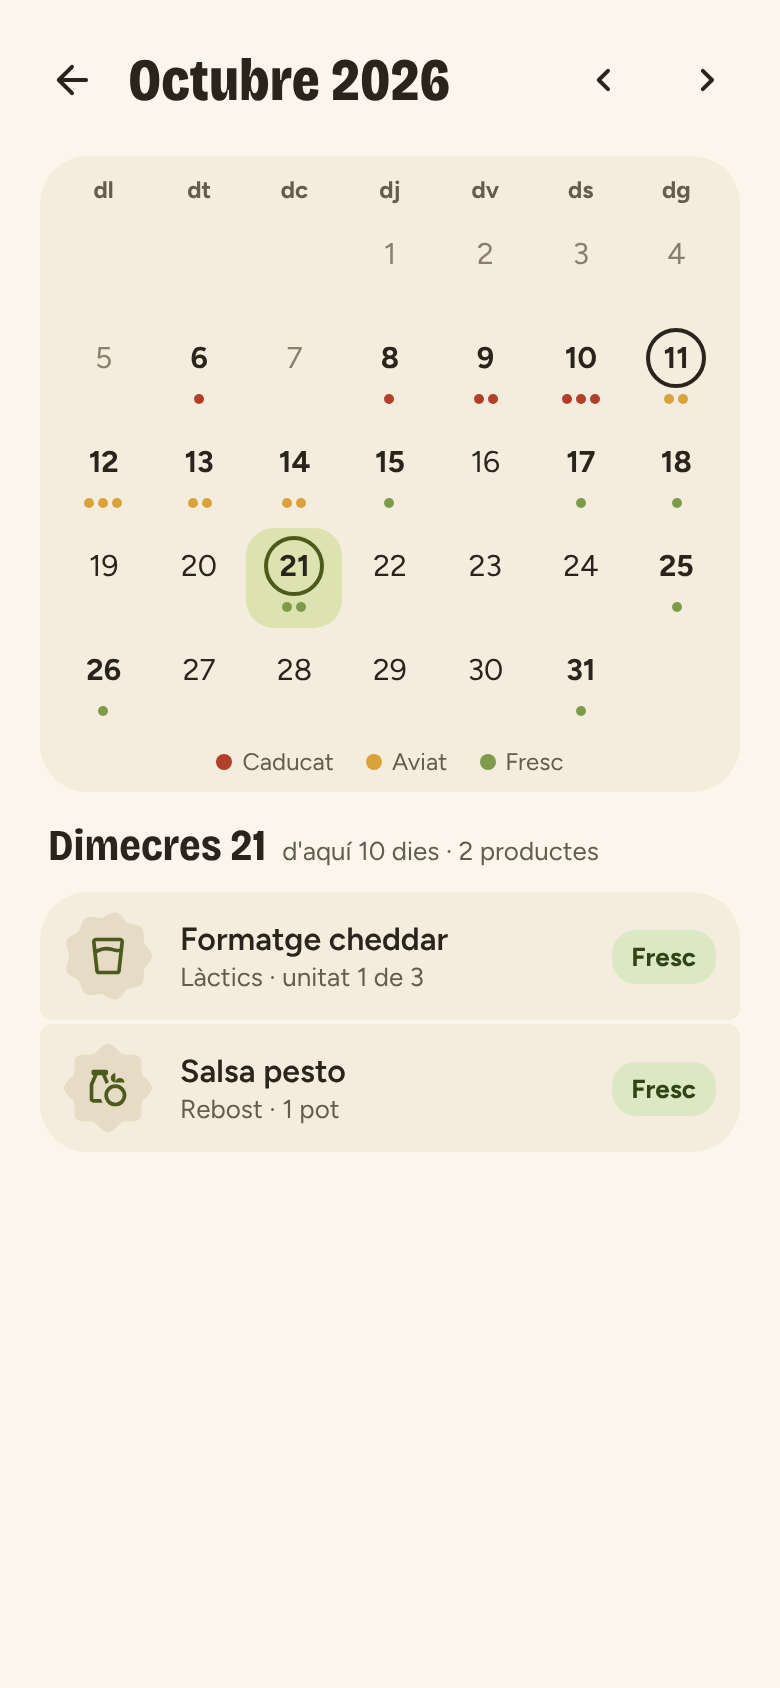
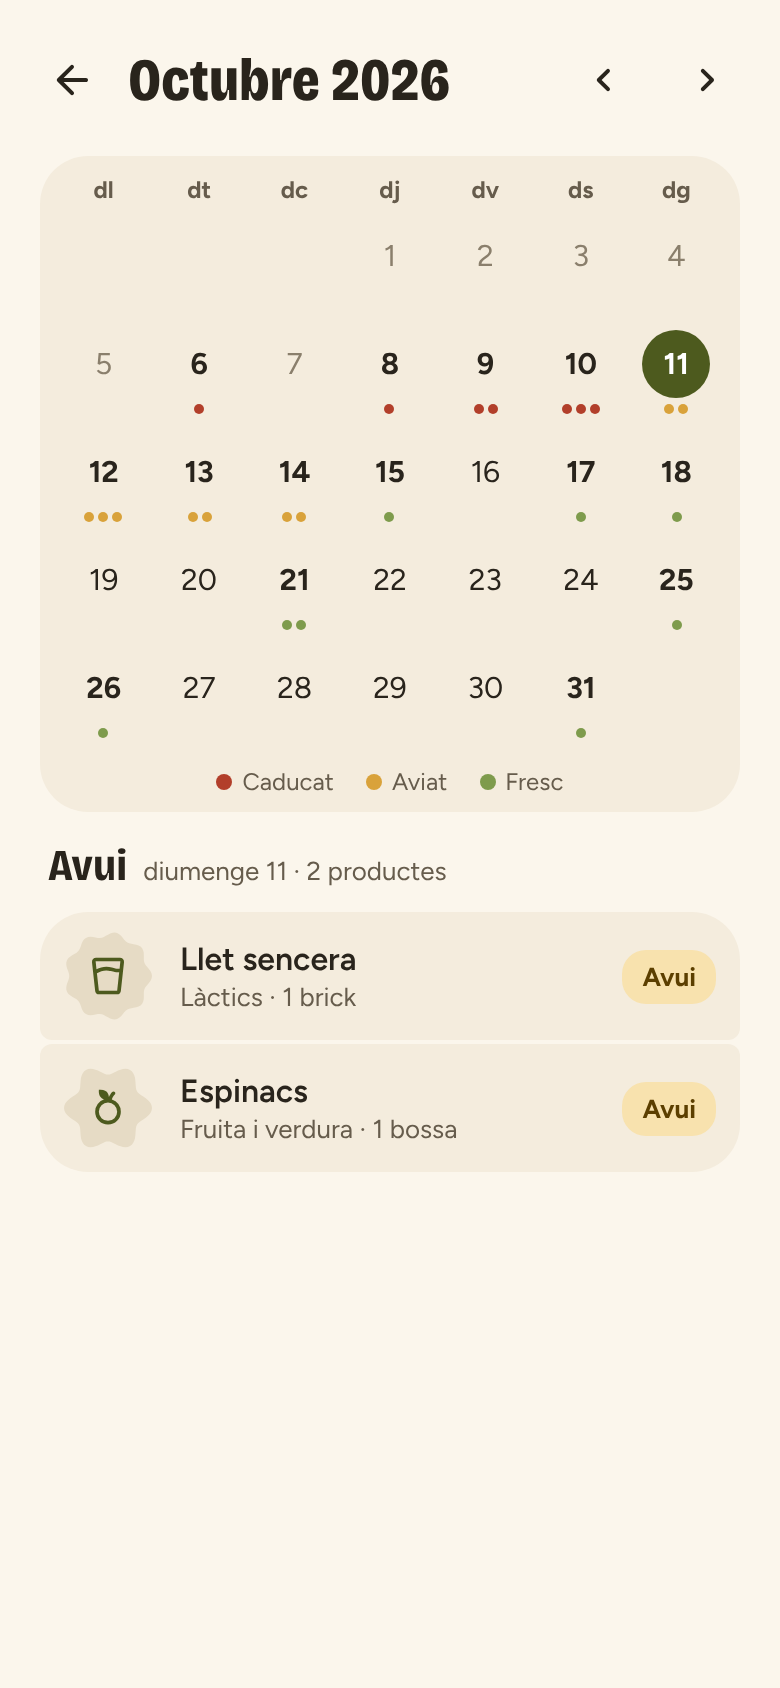
docs: updated month calendar spec, capture and source (day states on the 34 dp circle)
Claude-Session: https://claude.ai/code/session_01SHxGbYzaKL6KqCq2TQZq3q

diff --git a/docs/redisseny/02-disseny-nou/font-dc-html/CalMes.dc.html b/docs/redisseny/02-disseny-nou/font-dc-html/CalMes.dc.html
@@ -34,8 +34,8 @@ a{color:#4D5A1E}a:hover{color:#283010}
       </div>
       <div role="grid" aria-label="Octubre 2026" style="display: grid; grid-template-columns: repeat(7, minmax(0, 1fr)); row-gap: 2px">
         <sc-for list="{{cells}}" as="c" hint-placeholder-count="35">
-          <button aria-label="{{c.label}}" aria-pressed="{{c.selA}}" style="display: flex; flex-direction: column; align-items: center; gap: 3px; height: 50px; padding: 4px 0 0; border: none; border-radius: 14px; background: {{c.bg}}; color: {{c.fg}}; font-family: 'Figtree', sans-serif; visibility: {{c.vis}}; cursor: pointer">
-            <span style="width: 30px; height: 30px; box-sizing: border-box; border-radius: 15px; border: {{c.ring}}; display: flex; align-items: center; justify-content: center; font-size: 15px; font-weight: {{c.fw}}">{{c.n}}</span>
+          <button aria-label="{{c.label}}" aria-pressed="{{c.selA}}" style="display: flex; flex-direction: column; align-items: center; gap: 3px; height: 52px; padding: 3px 0 0; border: none; border-radius: 14px; background: transparent; color: {{c.fg}}; font-family: 'Figtree', sans-serif; visibility: {{c.vis}}; cursor: pointer">
+            <span style="width: 34px; height: 34px; box-sizing: border-box; border-radius: 17px; border: {{c.ring}}; background: {{c.bg}}; color: {{c.numFg}}; display: flex; align-items: center; justify-content: center; font-size: 15px; font-weight: {{c.fw}}">{{c.n}}</span>
             <span style="display: flex; gap: 2px; height: 5px">
               <sc-for list="{{c.dots}}" as="d" hint-placeholder-count="1">
                 <span style="width: 5px; height: 5px; border-radius: 3px; background: {{d}}"></span>
@@ -53,8 +53,8 @@ a{color:#4D5A1E}a:hover{color:#283010}
 
     <div style="display: flex; flex-direction: column; gap: 10px">
       <div style="display: flex; align-items: baseline; gap: 8px; padding: 0 4px">
-        <h2 style="margin: 0; font-family: 'Bricolage Grotesque', sans-serif; font-size: 22px; font-weight: 700; font-stretch: 85%">Dimecres 21</h2>
-        <span style="font-size: 13px; color: #665C4C">d'aquí 10 dies · 2 productes</span>
+        <h2 style="margin: 0; font-family: 'Bricolage Grotesque', sans-serif; font-size: 22px; font-weight: 700; font-stretch: 85%">Avui</h2>
+        <span style="font-size: 13px; color: #665C4C">diumenge 11 · 2 productes</span>
       </div>
       <div style="display: flex; flex-direction: column; gap: 2px">
         <a href="Accions.dc.html" style="display: flex; align-items: center; gap: 14px; min-height: 64px; box-sizing: border-box; padding: 10px 12px; border-radius: 24px 24px 6px 6px; background: #F4ECDD; color: #29241C; text-decoration: none">
@@ -62,16 +62,16 @@ a{color:#4D5A1E}a:hover{color:#283010}
             <svg viewBox="0 0 100 100" aria-hidden="true" style="position: absolute; inset: 0; width: 100%; height: 100%"><path d="{{cookie}}" fill="#E6DBC5"></path></svg>
             <span class="ms" style="position: relative; font-size: 22px; color: #4D5A1E">water_full</span>
           </div>
-          <div style="flex: 1"><div style="font-size: 16px; font-weight: 600">Formatge cheddar</div><div style="font-size: 13px; color: #665C4C; margin-top: 2px">Làctics · unitat 1 de 3</div></div>
-          <span style="padding: 6px 10px; border-radius: 12px; background: #DCE8C4; color: #2F4515; font-size: 13px; font-weight: 700">Fresc</span>
+          <div style="flex: 1"><div style="font-size: 16px; font-weight: 600">Llet sencera</div><div style="font-size: 13px; color: #665C4C; margin-top: 2px">Làctics · 1 brick</div></div>
+          <span style="padding: 6px 10px; border-radius: 12px; background: #F8E2AE; color: #5C3F00; font-size: 13px; font-weight: 700">Avui</span>
         </a>
         <a href="Accions.dc.html" style="display: flex; align-items: center; gap: 14px; min-height: 64px; box-sizing: border-box; padding: 10px 12px; border-radius: 6px 6px 24px 24px; background: #F4ECDD; color: #29241C; text-decoration: none">
           <div style="position: relative; width: 44px; height: 44px; flex: none; display: flex; align-items: center; justify-content: center">
-            <svg viewBox="0 0 100 100" aria-hidden="true" style="position: absolute; inset: 0; width: 100%; height: 100%"><path d="{{sunny}}" fill="#E6DBC5"></path></svg>
-            <span class="ms" style="position: relative; font-size: 22px; color: #4D5A1E">grocery</span>
+            <svg viewBox="0 0 100 100" aria-hidden="true" style="position: absolute; inset: 0; width: 100%; height: 100%"><path d="{{flower}}" fill="#E6DBC5"></path></svg>
+            <span class="ms" style="position: relative; font-size: 22px; color: #4D5A1E">nutrition</span>
           </div>
-          <div style="flex: 1"><div style="font-size: 16px; font-weight: 600">Salsa pesto</div><div style="font-size: 13px; color: #665C4C; margin-top: 2px">Rebost · 1 pot</div></div>
-          <span style="padding: 6px 10px; border-radius: 12px; background: #DCE8C4; color: #2F4515; font-size: 13px; font-weight: 700">Fresc</span>
+          <div style="flex: 1"><div style="font-size: 16px; font-weight: 600">Espinacs</div><div style="font-size: 13px; color: #665C4C; margin-top: 2px">Fruita i verdura · 1 bossa</div></div>
+          <span style="padding: 6px 10px; border-radius: 12px; background: #F8E2AE; color: #5C3F00; font-size: 13px; font-weight: 700">Avui</span>
         </a>
       </div>
     </div>
@@ -98,21 +98,22 @@ class Component extends DCLogic {
       15: [F], 17: [F], 18: [F], 21: [F, F], 25: [F], 26: [F], 31: [F]
     };
     var cells = [];
-    for (var b = 0; b < 3; b++) cells.push({ n: "", dots: [], vis: "hidden", bg: "transparent", fg: "#29241C", ring: "none", fw: 400, label: "", selA: "false" });
+    for (var b = 0; b < 3; b++) cells.push({ n: "", dots: [], vis: "hidden", bg: "transparent", numFg: "inherit", fg: "#29241C", ring: "none", fw: 400, label: "", selA: "false" });
     for (var d = 1; d <= 31; d++) {
-      var sel = d === 21, today = d === 11, past = d < 11;
+      var sel = d === 11, today = d === 11, past = d < 11;
       var ds = dots[d] || [];
       cells.push({
         n: String(d), dots: ds, vis: "visible",
-        bg: sel ? "#DCE3B0" : "transparent",
+        bg: sel ? "#4D5A1E" : "transparent",
+        numFg: sel ? "#FFFFFF" : "inherit",
         fg: past && ds.length === 0 ? "#8A7F6C" : "#29241C",
-        ring: sel ? "2px solid #4D5A1E" : (today ? "2px solid #29241C" : "2px solid transparent"),
+        ring: sel ? "2px solid transparent" : (today ? "2px solid #29241C" : "2px solid transparent"),
         fw: (sel || today || ds.length) ? 700 : 400,
         label: d + " d'octubre" + (ds.length ? ", " + ds.length + " productes" : ""),
         selA: sel ? "true" : "false"
       });
     }
-    return { wds: ["dl", "dt", "dc", "dj", "dv", "ds", "dg"], cells: cells, cookie: this.blob(9, 3, 0), sunny: this.blob(8, 4, 0) };
+    return { wds: ["dl", "dt", "dc", "dj", "dv", "ds", "dg"], cells: cells, cookie: this.blob(9, 3, 0), flower: this.blob(6, 6, 0) };
   }
 }
 </script>

diff --git a/docs/redisseny/04-especificacio/pantalles/11-calendari.md b/docs/redisseny/04-especificacio/pantalles/11-calendari.md
@@ -37,12 +37,21 @@ Component reutilitzable a dues pantalles. **No canvia la resta de la pantalla.**
 2. **Targeta del mes** (`surface-card`, radi 24, padding 10/8/8):
    - capçalera de dies (12 sp, 700, `ink-variant`), que **respecta «La setmana comença»** (Dilluns / Dissabte / Diumenge);
    - graella de 7 columnes; les cel·les buides abans del dia 1 són invisibles;
-   - **cel·la** de 50 dp (radi 14): número de 15 sp dins un cercle de 30 dp + punts de 5 dp (gap 2, màxim 3) del color fort de l'estat. **Aquí sí surten els dies passats amb punts `expired`** (productes caducats encara actius);
+   - **cel·la** de 52 dp, **sense fons propi**: número de 15 sp dins un **cercle de 34 dp** + punts de 5 dp (gap 2, màxim 3) del color fort de l'estat, a sota del cercle. **Aquí sí surten els dies passats amb punts `expired`** (productes caducats encara actius);
    - dies passats sense productes: número en `outline`; dies amb productes, avui i seleccionat: pes 700;
-   - **avui**: cercle amb vora 2 dp `ink`; **seleccionat**: fons `primary-container` + vora 2 dp `primary`;
+   - **Estats del dia — tots sobre el mateix cercle de 34 dp, mai sobre la cel·la sencera:**
+
+     | Estat | Cercle | Número |
+     |---|---|---|
+     | Normal | transparent | `ink` |
+     | **Avui** (no seleccionat) | vora 2 dp `ink`, sense fons | `ink` |
+     | **Seleccionat** (no avui) | fons `primary`, sense vora | `on-primary` |
+     | **Avui i seleccionat** (estat per defecte en obrir) | fons `primary`, **sense vora** (la selecció mana; no es dibuixa el cercle d'avui a dins) | `on-primary` |
+
+     Els punts sempre queden a sota del cercle, fora del fons, perquè es vegin també en el dia seleccionat.
    - **llegenda** centrada a sota: Caducat · Aviat · Fresc (punt de 8 dp + text 12 sp `ink-variant`). Els congelats no tenen data efectiva i no surten al calendari.
 3. **Dia seleccionat** (per defecte, avui):
-   - títol `section-title` «Dimecres 21» + «d'aquí 10 dies · 2 productes» (`ink-variant`);
+   - títol `section-title`: **«Avui»** / **«Demà»** / «Dimecres 21» + subtítol «diumenge 11 · 2 productes» o «d'aquí 10 dies · 2 productes» (`ink-variant`). Quan el dia és avui, el títol és «Avui» (no «Diumenge 11 · Avui»);
    - llista connectada (mín. 64 dp): forma de categoria 44 dp + nom + «Làctics · unitat 1 de 3» + pastilla d'estat («Fresc», «Avui», «Fa 2 dies»…). En tocar una fila s'obre el **full d'Accions**.
    - Sense productes: «Res caduca aquest dia».
 4. Sense barra flotant ni FAB (pantalla secundària).
